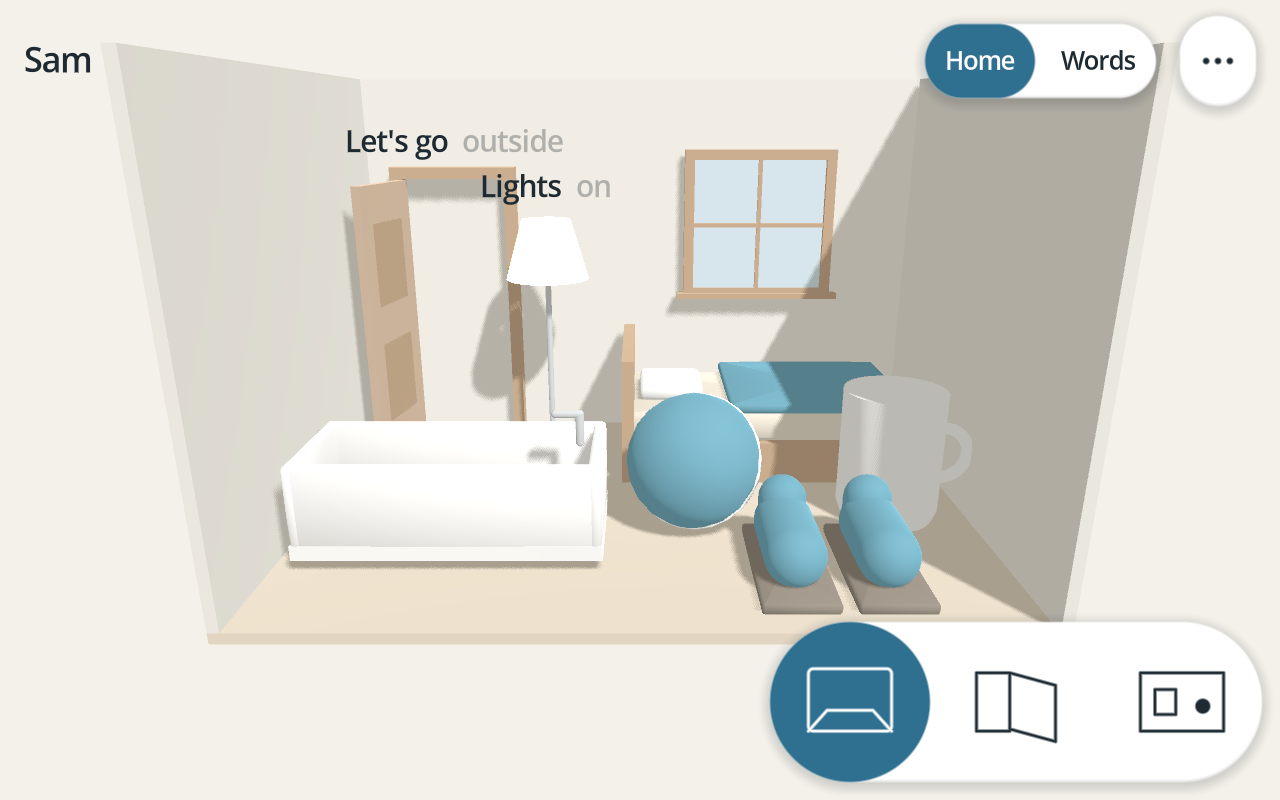
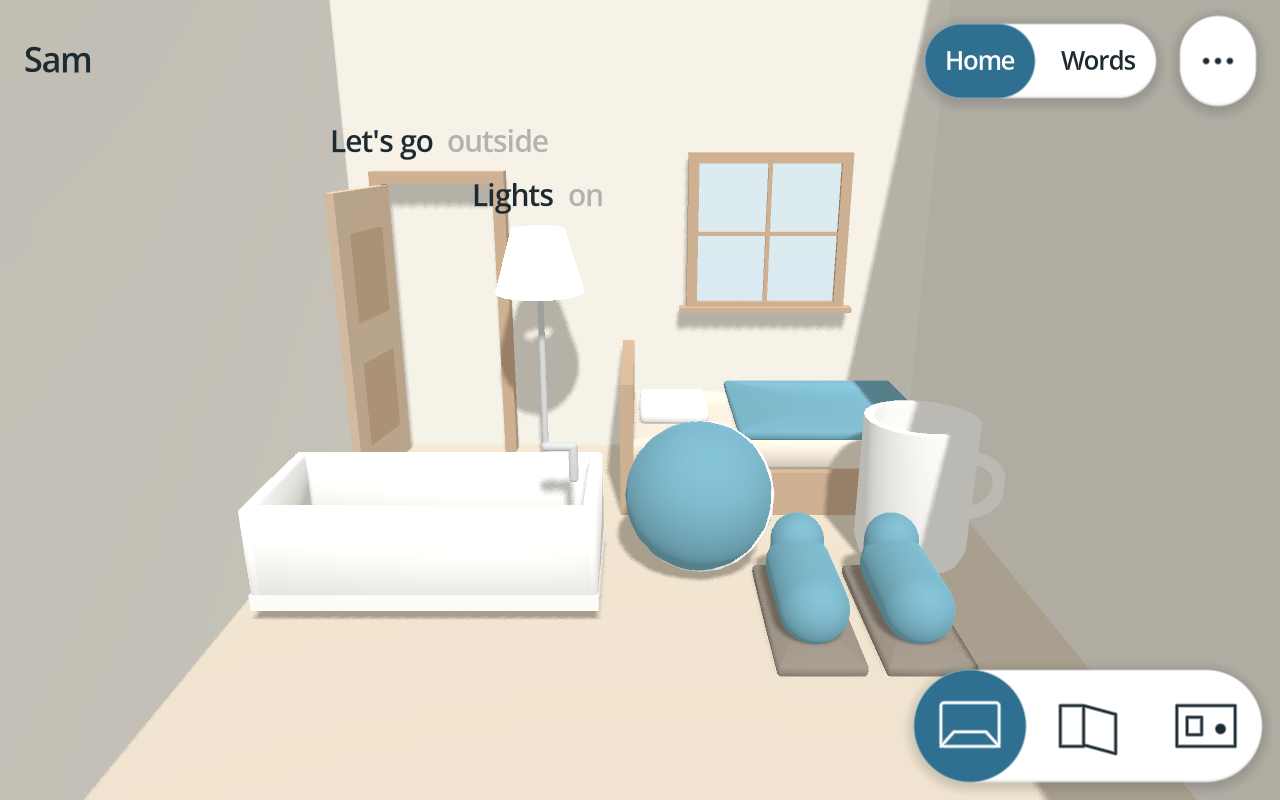
feat(rooms) fill the screen with the room and shrink the view pill
- The floor and the side walls run an apron toward the camera and every wall rises past the room's height,
  so the world reaches every screen edge; spots and framing still use the room's box.
- The sun comes from the front, so the raised walls shadow the apron and not the back wall.
- A view button is seven tenths of the tile floor, never under 96 px.

Claude-Session: https://claude.ai/code/session_01Brov8DxnPxPnDvfkaNeKXq

diff --git a/docs/ui.md b/docs/ui.md
@@ -44,7 +44,7 @@ is `PASS`, so a tap on its padding does not.
 | `SdfGlyph` | `Control` | One figure of the glyph shader: front, side, top, turn, dots, microphone. |
 | `SdfButton` | `Button` | A Button with empty style boxes and an `SdfShape` behind its text. Hover adds a border, a press pulls the shape in, active fills with the accent. `shape` is rounded, pill or circle. `quiet` is a bar item. |
 | `SdfPanel` | `PanelContainer` | A panel with an `SdfShape` behind its content, a larger radius, and `inner_radius()` for what sits in it. |
-| `PillBar` | `MarginContainer` | A floating pill of quiet pill buttons in one toggle group: the place strip, the view widget. |
+| `PillBar` | `MarginContainer` | A floating pill of quiet pill buttons in one toggle group: the place strip, the view widget. A view button is seven tenths of the tile floor, never under 96 px. |
 | `HoldButton` | `SdfButton` | Fires only after a hold. Every adult screen sits behind one. |
 
 The background quad an `SdfShape` paints is the control grown by `SdfShape.PAD_PX` on each side, so the

diff --git a/docs/geometry.md b/docs/geometry.md
@@ -16,7 +16,10 @@ live in `RoomSpace`:
 | `HEIGHT` | 2.6 m |
 | `WALL` | 0.06 m thick |
 
-The floor is `y = 0`, the back wall is at `-Z`, the open front faces `+Z`. A spot's `x`, `y` and `height`
+The floor is `y = 0`, the back wall is at `-Z`, the open front faces `+Z`. The drawn shell is bigger than the
+box: the floor and the side walls run `APRON` past the open front toward the camera, and every wall rises
+`WALL_RISE` past the room's height, so the world reaches every edge of the screen instead of stopping at the
+box. Spots and the camera's framing use the box; only the shell uses the apron and the rise. A spot's `x`, `y` and `height`
 are fractions of this box, so a starter pack never names a meter. `RoomSpace.place` turns a spot into a
 transform: a floor spot stands at `x` across and `y` back to front; a wall spot hangs on its wall at `x` along
 it with its base at `height`, turned to face into the room. A wall hides while the camera stands outside it

diff --git a/CLAUDE.md b/CLAUDE.md
@@ -102,7 +102,8 @@ the learner alone; interesting enough to sustain interest; useful; harmless. The
 - **Motion respects the style's `motion` setting.** Every tween multiplies by `Style.motion_scale()` and
   skips at zero.
 - **Touch targets honor `StylePreset.tile_min_size`.** 160 px is the floor. In the room, picking takes the
-  nearest object within half the floor when the ray misses, and the view buttons are the floor square.
+  nearest object within half the floor when the ray misses. The view buttons are secondary and take seven
+  tenths of the floor, never under 96 px.
 - **Screen-space graphics are distance fields** (docs/ui.md). A button, panel, tile or bar is an `SdfShape`,
   an icon is an `SdfGlyph` figure, text is MSDF. Corners are concentric, bars are pills, relief comes from the
   style preset. No `StyleBoxFlat`, no image, no `_draw` polyline on anything a user sees. A new control
